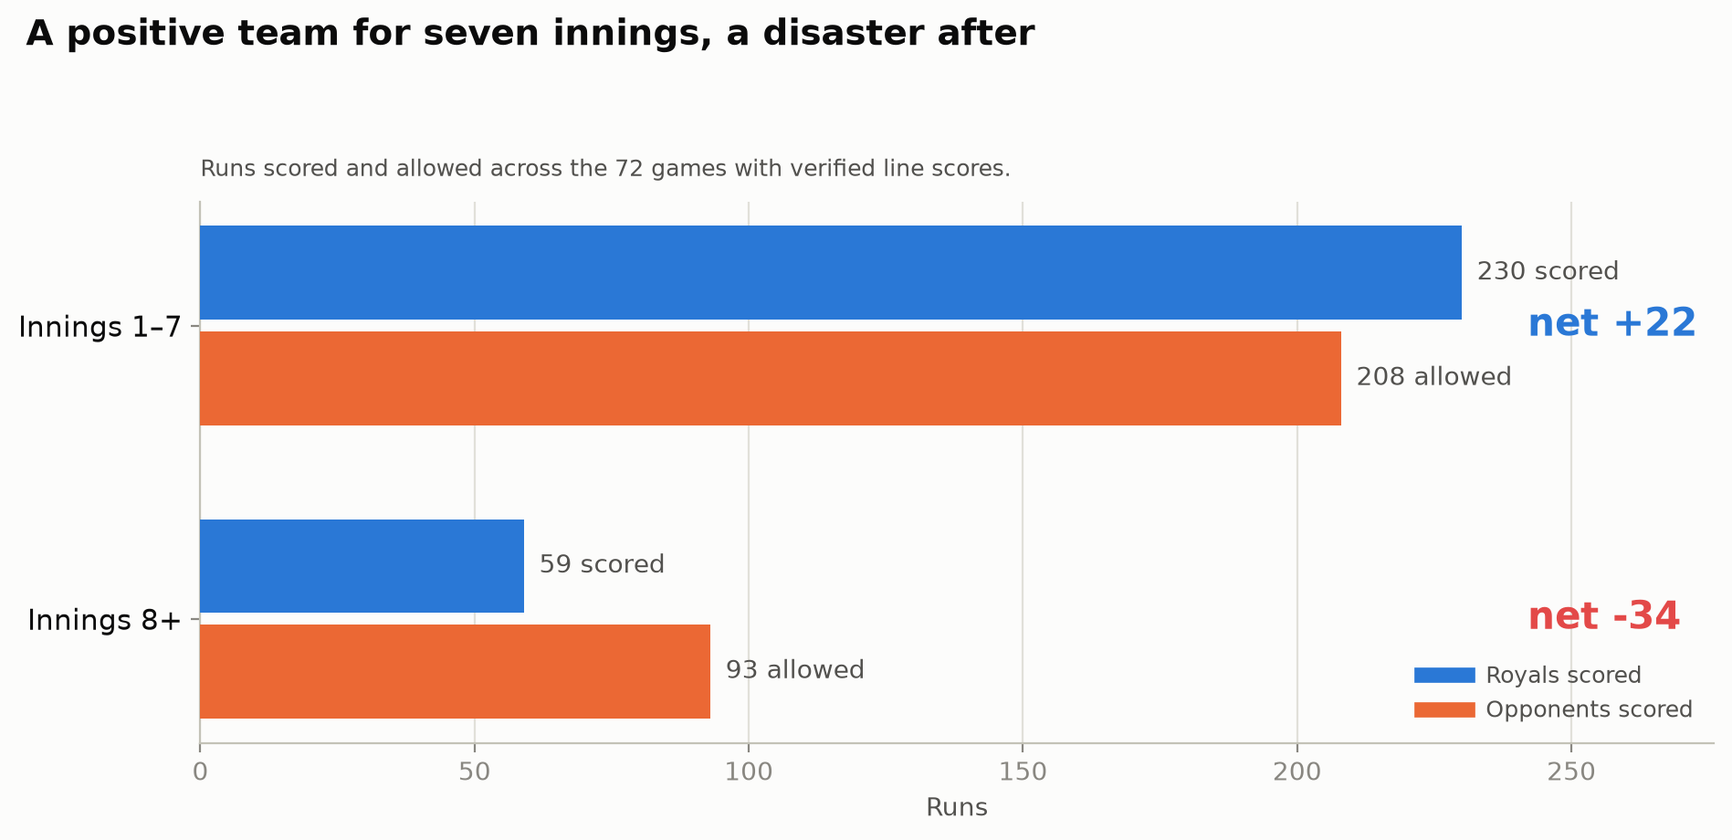
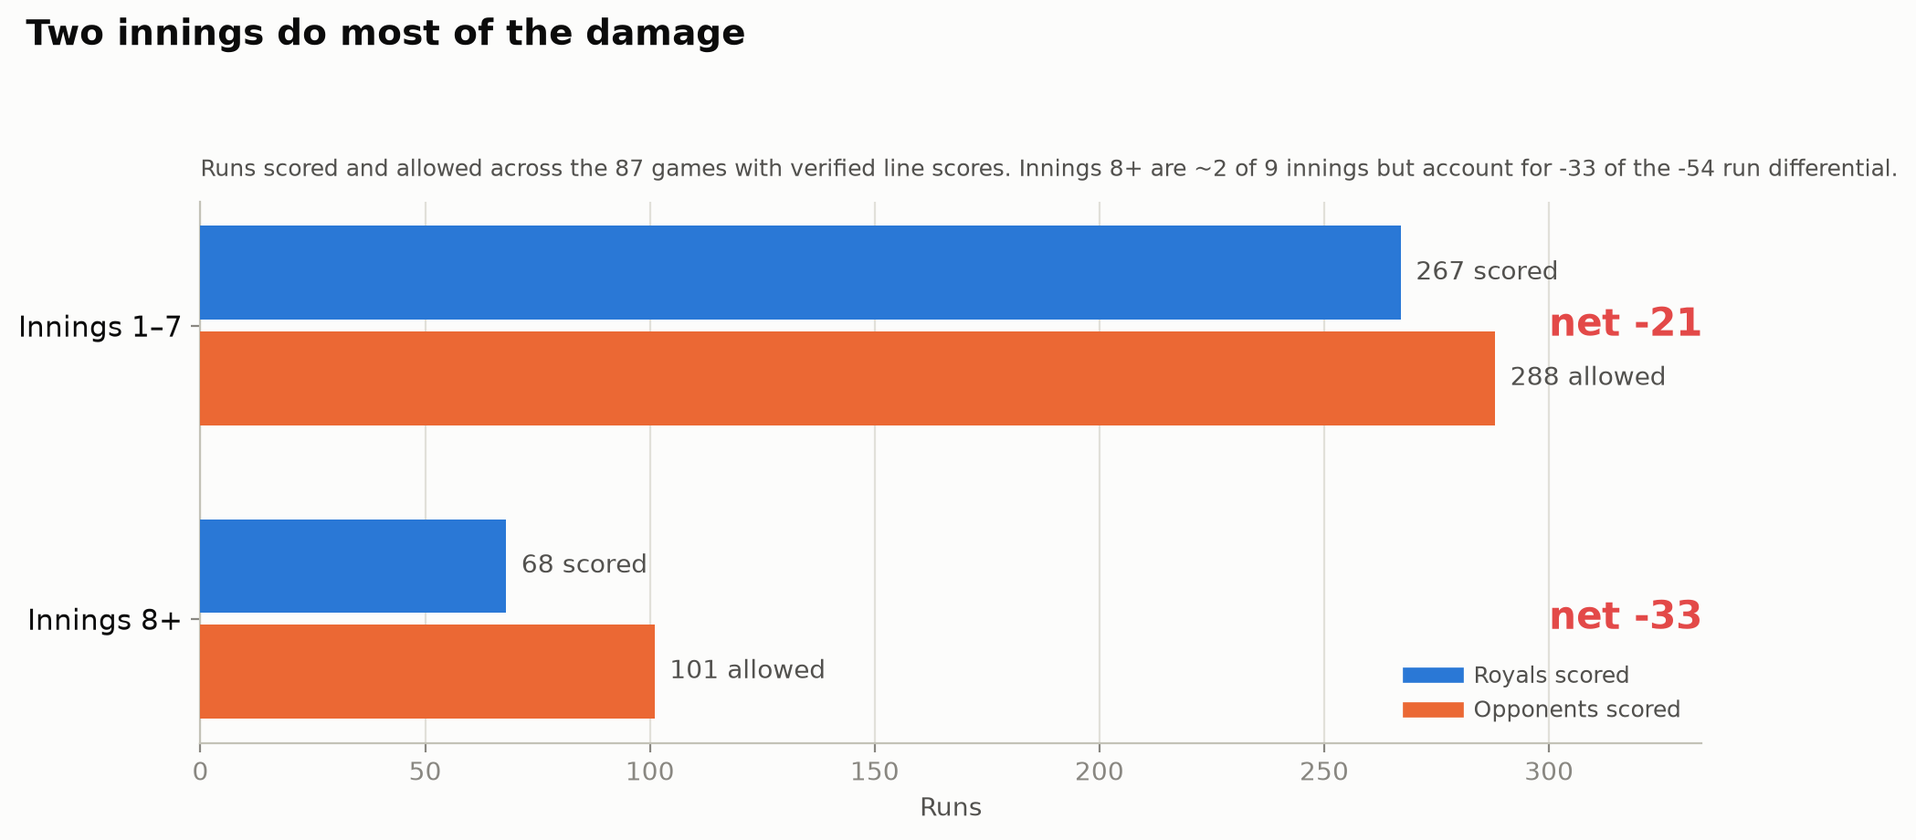
Verify game log against box scores; update analysis, report, figures
Second-pass verification of all 110 games against box-score sources
(Baseball Almanac, plaintextsports, ESPN boxes, AP itemized recaps).
All games now resolved; 87 have exact two-sided thru-7 line scores.

Corrections: May 2 (10-inn game, KC trailed 1-2 thru 7 -> 4th late
comeback), May 24 (5-3, tie eliminated), Jun 4 (6-5, tie -> after-7 W),
Jul 5 (2-2 tie), Jul 10 (trailed 2-3), Jul 30 (led 3-0 thru 8, lost on
walk-off grand slam -> 11th blown after-7 lead).

Verified season: actual 46-64 (.418) vs after-7 46-51-13 (.477).
11 blown after-7 leads vs 4 comebacks; innings 8+ run diff -33.
Figures regenerated from verified data; data_sources.md updated.

Claude-Session: https://claude.ai/code/session_01Mte6x5js7uS9Rd8ZQKC4MF

diff --git a/scripts/plot_seven_inning.py b/scripts/plot_seven_inning.py
@@ -146,6 +146,10 @@ def fig_flips(games, outdir):
     ax.fill_between([0.0, lim], 0, -lim, color=RED, alpha=0.06, zorder=0)
     ax.fill_between([-lim, 0.0], 0, lim, color=BLUE, alpha=0.06, zorder=0)
 
+    n_blown = sum(1 for g in full
+                  if g["kc_thru7"] > g["opp_thru7"] and g["kc_final"] < g["opp_final"])
+    n_comeback = sum(1 for g in full
+                     if g["kc_thru7"] < g["opp_thru7"] and g["kc_final"] > g["opp_final"])
     seen_xy = {}
     for g in full:
         x = g["kc_thru7"] - g["opp_thru7"]
@@ -165,10 +169,10 @@ def fig_flips(games, outdir):
         ax.scatter(x + dx, y + dy, s=size, color=color, edgecolors=SURFACE,
                    linewidths=1.4, zorder=z)
 
-    ax.text(lim - 0.3, -lim + 0.4, "Led thru 7, lost\n(10 games)", color=RED,
+    ax.text(lim - 0.3, -lim + 0.4, f"Led thru 7, lost\n({n_blown} games)", color=RED,
             fontsize=10, fontweight="bold", ha="right", va="bottom")
-    ax.text(-lim + 0.3, lim - 0.4, "Trailed thru 7, won\n(3 games)", color=BLUE,
-            fontsize=10, fontweight="bold", ha="left", va="top")
+    ax.text(-lim + 0.3, lim - 0.4, f"Trailed thru 7, won\n({n_comeback} games)",
+            color=BLUE, fontsize=10, fontweight="bold", ha="left", va="top")
     ax.set_xlim(-lim, lim)
     ax.set_ylim(-lim, lim)
     ax.set_xlabel("Royals margin at the end of the 7th inning")
@@ -214,9 +218,11 @@ def fig_late_runs(games, outdir):
     ax.grid(axis="y", visible=False)
     ax.set_xlim(0, max(scored + allowed) + 46)
     ax.set_xlabel("Runs")
-    title_block(fig, ax, "A positive team for seven innings, a disaster after",
+    net7, net8 = rs7 - ra7, rs8 - ra8
+    title_block(fig, ax, "Two innings do most of the damage",
                 f"Runs scored and allowed across the {len(full)} games with "
-                "verified line scores.")
+                f"verified line scores. Innings 8+ are ~2 of 9 innings but "
+                f"account for {net8} of the {net7 + net8} run differential.")
     legend = [Line2D([0], [0], color=BLUE, lw=6, label="Royals scored"),
               Line2D([0], [0], color=ORANGE, lw=6, label="Opponents scored")]
     ax.legend(handles=legend, loc="lower right", frameon=False, fontsize=9,

diff --git a/reports/royals/2026-07-30_seven-inning-season-counterfactual.md b/reports/royals/2026-07-30_seven-inning-season-counterfactual.md
@@ -1,6 +1,6 @@
 # What if every Royals game ended after 7 innings? A 2026 counterfactual
 
-> Date: 2026-07-30
+> Date: 2026-07-30 (updated 2026-07-31 with box-score verification and figures)
 > Author: Baseball-Thoughts (compiled with Claude)
 
 ## Question
@@ -13,17 +13,20 @@ If the "blown leads" impression is real, the Royals' after-7 record should be me
 
 ## Data
 
-- Source(s): Per-game recaps and partial line scores from ESPN, MLB.com, AP wire stories (via Washington Post, FOX Sports, ABC News, and regional outlets), CBS Sports, and team SB Nation sites (Royals Review, Amazin' Avenue, South Side Sox, Twinkie Town, Lone Star Ball, Redleg Nation, The Good Phight, Camden Chat, Athletics Nation), gathered via web search on 2026-07-30. Sources for pivotal games are cited inline and in the game log.
-- Time window: 2026-03-27 (Opening Day) through 2026-07-30 — 110 regular-season games.
-- Filters / scope: Kansas City Royals regular-season games only.
-- Known limitations: The MLB Stats API and all direct page fetches were blocked by this environment's network policy (same constraint as the 2026-07-08 report), so line scores were reconstructed from recap narratives rather than pulled from a structured API. Confidence is graded per game in the data file; 4 of 110 games could not be resolved through 7 innings and are excluded from the counterfactual tally.
+- **Two independent passes.** Pass 1 reconstructed every game's score through 7 innings from game recaps (AP wire, ESPN, MLB.com, team SB Nation sites). Pass 2 re-verified all 110 games against box-score-grade sources — Baseball Almanac box pages, plaintextsports line scores, ESPN box scores, and AP recaps that itemize every scoring play — and corrected six games (list under Method).
+- **Structured sources were unreachable.** This environment's network policy blocks the MLB Stats API, ESPN's API, Baseball-Reference, Baseball Savant, and HuggingFace (where the weekly-updated `statcast-era-pitches` archive lives). The only open host family is GitHub: Neil Paine's maintained MLB Elo game-results CSV was pulled from `Neil-Paine-1/MLB-WAR-data-historical` as a candidate independent source for final scores, but its data ends with the 2025 season. All verification therefore ran through the web-search layer against the box-score sources above.
+- Time window: 2026-03-27 (Opening Day) through 2026-07-30 — 110 regular-season games, all resolved.
+- Coverage: **87 games have exact through-7 line scores for both teams**; the other 23 have one side bounded (e.g., "11–13") with the after-7 winner still arithmetically certain. Zero games unresolved.
+- Cross-checks: season-record checkpoints reconcile exactly (35-51 entering July 1; 41-60 after July 20; 43-62 after July 24; 46-64 after July 30).
 
 ## Method
 
-For each game, the score at the completion of the 7th inning was reconstructed from recap narratives (e.g., "tied it in the 8th," "walk-off in the 9th," "all the scoring came by the 5th"), cross-checked against season-record checkpoints (35-51 entering July 1; 43-62 after July 24). Each game gets an after-7 result: W, L, or T (tied through 7 — in this thought experiment, ties stand). Games where the exact through-7 line score is unknown but the after-7 leader is arithmetically certain (e.g., the 22-1 loss) are counted in the record but excluded from run-differential math.
+For each game, the score at the completion of the 7th inning was taken from line scores where available, otherwise reconstructed from itemized scoring plays. Each game gets an after-7 result: W, L, or T (tied through 7 — in this thought experiment, ties stand). Games with a certain after-7 winner but partially bounded scores count in the record but are excluded from run-differential math.
 
-Data: [`data/processed/2026_royals_after7_gamelog.csv`](../../data/processed/2026_royals_after7_gamelog.csv) (110 rows, per-game confidence grades and notes).
-Analysis: [`scripts/seven_inning_counterfactual.py`](../../scripts/seven_inning_counterfactual.py) — rerun with `python scripts/seven_inning_counterfactual.py data/processed/2026_royals_after7_gamelog.csv`.
+Corrections made by the verification pass: **May 2** (was unresolved → KC trailed 1-2 through 7 of a 10-inning game they won), **May 24** (5-3 lead, tie scenario eliminated), **June 4** (6-5 through 7, not 6-6 — Caratini's tying homer came in the 8th), **July 5** (2-2 tie, not a KC lead — Perez's sealing double came in the 8th), **July 10** (KC trailed 2-3 through 7; the 3-3 tie only existed mid-8th), and **July 30** (was unresolved → KC led 3-0 through 7 *and 8* and lost on a 9th-inning walk-off grand slam).
+
+Data: [`data/processed/2026_royals_after7_gamelog.csv`](../../data/processed/2026_royals_after7_gamelog.csv) (110 rows, per-game confidence grades, line scores in notes).
+Analysis: [`scripts/seven_inning_counterfactual.py`](../../scripts/seven_inning_counterfactual.py) · Figures: [`scripts/plot_seven_inning.py`](../../scripts/plot_seven_inning.py)
 
 ## Results
 
@@ -32,18 +35,15 @@ Analysis: [`scripts/seven_inning_counterfactual.py`](../../scripts/seven_inning_
 | | Record | Win % |
 |---|---|---|
 | **Actual season (110 games)** | 46-64 | .418 |
-| **Actual, over the 106 resolved games** | 45-61 | .425 |
-| **If games ended after 7 (106 resolved games)** | **45-47-14** | **.491** (ties as half) |
+| **If games ended after 7 (same 110 games)** | **46-51-13** | **.477** (ties as half) |
 
-The 7-inning Royals are a nearly .500 team. The 9-inning Royals are on a 68-win pace. Innings 8 and beyond have cost Kansas City **about 7 wins of standings value through July 30** — roughly an 11-win swing over a full season.
+The 7-inning Royals sit a hair under .500. The 9-inning Royals are on a 68-win pace. Innings 8 and beyond have cost Kansas City **6.5 wins of standings value through July 30** — a ~10-win swing over a full season.
 
-### It's not the offense, and it's not the starters
+![Cumulative games above .500: actual vs after-7](figures/walk_actual_vs_after7.png)
 
-Over the 72 games with fully reconstructed line scores, the Royals **outscored opponents by 22 runs through 7 innings** — and finished those same games with a **−12 run differential**. From the 8th inning on they were outscored **93 to 59 (−34)**. The first seven innings of Royals baseball this season have been played by a solidly positive team; the last two have been played by one of the worst late-game teams imaginable.
+### Eleven blown games — including the very night this question was asked
 
-### Ten blown games: led after 7, lost anyway
-
-The Royals led at the end of the 7th in **ten games they went on to lose**. Only **three times** did they trail after 7 and come back to win (Apr 26 vs LAA, May 8 vs DET, Jul 26 at DET). A 10-to-3 imbalance:
+The Royals led at the end of the 7th in **eleven games they went on to lose**; only **four times** did they trail after 7 and come back to win. Eight of the eleven ended as walk-off losses.
 
 | Date | Opp | Led thru 7 | Final | How it died |
 |---|---|---|---|---|
@@ -57,59 +57,61 @@ The Royals led at the end of the 7th in **ten games they went on to lose**. Only
 | Jun 13 | vs HOU | 7-5 | L 7-8 | Altuve tying HR in the 8th; winning run scored on a botched double-play throw in the 9th |
 | Jul 8 | @ NYM | 2-1 | L 2-6 | Five-run 8th off Lange/Cuas: bases-loaded HBP, two-run single, wild pitch |
 | Jul 28 | @ MIN | 2-1 | L 2-3 | Two out in the 9th; Royce Lewis two-run walk-off triple |
+| **Jul 30** | @ MIN | **3-0** | **L 3-4** | **Cameron threw 8 shutout innings; Erceg loaded the bases in the 9th and Kody Clemens hit a walk-off grand slam** |
 
-Seven of the ten ended as walk-off losses. In a 7-inning world, all ten go in the win column.
+![Margin through 7 vs final margin, flips highlighted](figures/flip_scatter.png)
 
-### Fourteen ties — and the Royals actually win the late innings of tied games
+### Thirteen ties — and the Royals actually win the late innings of tied games
 
-Fourteen games were tied through 7 (13% of the season). Here the Royals broke even-plus: they won 7 of the 14 in real life (including Salvador Perez's record-breaking 318th-HR game on Jul 25 and the Jensen walk-off against San Diego on Jul 17) and lost 7 (four of them walk-offs: Rocchio, Pozo, Gonzalez, plus Basallo's 8th-inning homer). The disaster is specifically **protecting leads**, not playing from even.
+Thirteen games were tied through 7 (12% of the season). Here the Royals came out ahead: they won 7 of the 13 in real life (including Salvador Perez's record-breaking 318th-HR game on Jul 25, the Jensen walk-off against San Diego on Jul 17, and the Jul 5 Phillies game sealed by Perez's 8th-inning double) and lost 6 — three of those by walk-off (Rocchio, Pozo, Gonzalez). The disaster is specifically **protecting leads**, not playing from even.
+
+### The run-differential anatomy
+
+Over the 87 games with complete line scores, the Royals were outscored by 21 through seven innings — they are not secretly a good team for seven frames; the 22-1 and 19-2 blowouts are real. But innings 8+ produced a **−33 differential (68 scored, 101 allowed) in roughly two innings a game**: per inning, the late innings have been about **five times worse** than innings 1–7 (−0.19 runs/inning vs −0.03). The record gap comes precisely from close games: an 11-to-4 blown-lead imbalance and a .418 season that would be .477 without the last two innings.
+
+![Runs scored and allowed, innings 1-7 vs 8+](figures/late_inning_runs.png)
 
 ### Month by month
 
-| Month | Actual | After 7 innings | Swing |
+| Month | Actual | After 7 innings | Swing (ties = ½) |
 |---|---|---|---|
 | March | 2-2 | 3-1 | +1 |
 | April | 10-17 | 11-13-3 | +2.5 |
-| May | 10-18 | 8-15-4 | ±0 |
-| June | 13-14 | 13-10-4 | +2 |
-| July (thru 7/30) | 11-13 | 10-8-3 | +0.5 |
+| May | 10-18 | 8-16-4 | ±0 |
+| June | 13-14 | 14-10-3 | +2.5 |
+| July (thru 7/30) | 11-13 | 10-11-3 | +0.5 |
 
-May is the honest month: the Royals were simply bad for nine innings (they even stole a couple of games late — the Isbel walk-off on May 8 was a real comeback). Every other month, the last two innings took wins off the board. April alone turned a would-be .500-ish month (11-13-3) into 10-17.
+May is the honest month: the Royals were simply bad for nine innings, and twice stole games late (the Isbel walk-off May 8, the 10-inning May 2 win in Seattle). Every other month, the last two innings took wins off the board.
 
 ### The culprits have names
 
-The blown games cluster around the same arms: **Lucas Erceg** (blown 9th innings May 25, May 30, Jun 2), **Matt Strahm** (decisive 8th-inning homers allowed May 12, Jun 6, Jul 10), and the **Lange/Cuas** five-run 8th on Jul 8. The Jun 10 loss featured a walk-walk-HBP meltdown; Jun 13 and the Jul 28 near-miss ended on defensive mistakes. This is a late-inning run-prevention problem across the board — the offense actually added runs late (59 scored in innings 8+), just nowhere near the 93 allowed.
+The blown games cluster around the same arms. **Lucas Erceg** has four of them: the Volpe two-run single (May 25, tied game), five straight hits in Texas (May 30), Benson's tying homer (Jun 2), and the Clemens walk-off grand slam (Jul 30). **Matt Strahm** allowed the decisive 8th-inning homer three times in tied games (May 12 Hill, Jun 6 Arcia, Jul 10 Basallo). The **Lange/Cuas** five-run 8th lost Jul 8. Two more died on defense (the Jun 13 double-play throw, Jul 28 after five double plays had kept KC ahead). The offense is not the problem late — 68 runs scored in innings 8+, and 7 of 13 after-7 ties won — the runs allowed are.
 
 ## Limitations
 
-- Line scores were reconstructed from recap narratives, not an API. 72 of 110 games have fully verified through-7 scores; 34 more have a certain after-7 winner but partially unknown exact scores; 4 games (May 2, Jul 11, Jul 12, Jul 30) are unresolved and excluded. Three of the four unresolved games were actual losses that were very probably also after-7 losses — including them would nudge the counterfactual toward 45-50-14 (.477), still ~5 wins better than actual.
-- Ties are counted as half-wins, which flatters no one; MLB has no ties, so the counterfactual record is an accounting convention, not a simulation.
-- The counterfactual is descriptive, not causal: in a real 7-inning league, managers would deploy bullpens completely differently, so this measures *where the 2026 Royals lost their games*, not what a 7-inning league would produce.
-- 35 resolved games carry MEDIUM confidence on the exact through-7 score (the after-7 winner is certain in each); a structured API pull could tighten every number here.
+- No structured API was reachable; every line score came from box-score pages and itemized recaps surfaced through the search layer. 87 of 110 games have exact two-sided through-7 scores; 23 more have one side bounded with a certain after-7 winner; 9 carry reduced confidence overall (flagged in the CSV). No game's after-7 *result* is in doubt.
+- Ties counted as half-wins are an accounting convention, not a simulation; MLB has no ties.
+- The counterfactual is descriptive, not causal: in a real 7-inning league, bullpens would be deployed completely differently. This measures *where the 2026 Royals lost their games*, not what a 7-inning league would produce.
 
 ## Takeaway
 
-The impression is correct, and it's quantifiable: through July 30 the Royals are a .491 team through seven innings and a .418 team at final. They led after 7 in ten games they lost — seven by walk-off — against only three late comeback wins, and were outscored 93-59 from the 8th inning on despite a +22 run differential through 7. End every game after seven innings and this is a fringe-.500 club (45-47-14) instead of one 18 games under. The roughly 7 wins burned in the late innings trace mostly to the high-leverage bullpen (Erceg's three blown 9ths, Strahm's three decisive 8th-inning homers, the Jul 8 Lange/Cuas implosion) rather than to a lineup that goes quiet late.
+Verified against box scores, the picture is sharper than the first pass suggested: the Royals are a .477 team through seven innings and a .418 team at final. They led after 7 in eleven games they lost — eight by walk-off, four with Erceg on the mound at the end — against four late comeback wins, and innings 8+ carry a −33 run differential in two innings a game, five times worse per inning than the first seven. The night before this report was updated was the season in miniature: eight shutout innings from Noah Cameron, a 3-0 lead, and a walk-off grand slam. End games after seven and this club is 46-51-13 — fringe-.500 — instead of eighteen games under.
 
 ## Next iteration
 
-- Re-pull the whole season from the MLB Stats API linescore endpoint from a network-permitted environment to upgrade all MEDIUM rows to verified and resolve the 4 unknowns.
-- Compare against league: is a −34 innings-8+ run differential actually extreme, or does every bad team look like this? (Compute the same counterfactual for all 30 teams.)
-- Slice by reliever: innings-8+ runs allowed by pitcher, and win-probability-added lost in innings 8+, to separate the Erceg/Strahm effect from general bullpen depth.
-- Revisit after the trade deadline: if the late-inning arms change, does the actual-vs-after-7 gap close?
+- A statsapi/linescore pull from a network-permitted environment would upgrade the 23 bounded rows to exact and add R/H/E; the repo's CSV schema is ready for it.
+- League context: compute the same counterfactual for all 30 teams — is an 11-to-4 blown-lead imbalance and −33 late differential historically extreme?
+- Per-reliever accounting: innings-8+ runs allowed and WPA lost by pitcher, to separate the Erceg/Strahm effect from bullpen depth.
+- Re-run after the trade deadline to see whether the gap closes with new late-inning arms.
 
 ## Sources
 
-Pivotal-game sources (full per-game citations in the CSV notes and the four research passes behind it):
+Verification-pass sources per game are recorded in the CSV notes. Pivotal-game citations:
 
-- [ESPN: Braves 6-2 Royals, Mar 28 — walk-off grand slam](https://www.espn.com/mlb/recap/_/gameId/401814710) · [AJC](https://www.ajc.com/sports/2026/03/dominic-smith-hits-walk-off-grand-slam-as-braves-beat-royals-6-2/)
-- [ESPN: Tigers 2-1 Royals, Apr 14](https://www.espn.com/mlb/recap/_/gameId/401814934) · [ESPN: Tigers 10-9 Royals, Apr 16](https://www.espn.com/mlb/recap?gameId=401814963)
-- [ESPN: Orioles 7-5 Royals (12), Apr 20](https://www.espn.com/mlb/recap?gameId=401815021)
-- [MLB.com: Rangers walk off Royals, May 30](https://www.mlb.com/news/carter-jensen-royals-rally-before-walk-off-loss-to-rangers)
-- [Redleg Nation: Benson ties it in 9th, Dunn wins it in 10th, Jun 2](https://www.redlegnation.com/2026/06/02/will-benson-ties-it-in-9th-blake-dunn-wins-it-in-10th/)
-- [NBC DFW: Rangers 6-4 in 10, Jun 10](https://www.nbcdfw.com/mlb/diaz-and-burger-lead-the-rangers-to-a-6-4-win-over-the-royals-in-10-innings/4035150/) · [MLB.com: Astros' three unanswered, Jun 13](https://www.mlb.com/video/astros-score-three-unanswered-runs-to-defeat-royals)
-- [Amazin' Avenue: Five-run eighth propels Mets, Jul 8](https://www.amazinavenue.com/new-york-mets-scores/97401/mets-recap-final-scores-five-run-eighth-propels-victory-over-royals-kansas-city-new-york-baseball-mlb)
-- [Baltimore Banner: Basallo's 8th-inning homer, Jul 10](https://www.thebanner.com/sports/orioles-mlb/orioles-royals-samuel-basallo-winning-home-run-RENZGVWL2JCGFBJB2BPRYPP7XU/)
-- [CBS Minnesota/AP: Lewis walk-off triple, Jul 28](https://www.cbsnews.com/minnesota/news/twins-vs-royals-game-july-28-2026/)
-- [Times Gazette/AP: Perez's record 318th HR, Jul 25](https://www.timesgazette.com/2026/07/25/nick-loftin-and-salvador-perez-hit-late-inning-home-runs-as-royals-rally-to-beat-tigers-3-2/)
-- [NBC Sports/AP: Jensen caps 4-run 10th, Jul 17](https://www.nbcsports.com/mlb/news/carter-jensens-2-run-single-caps-4-run-10th-inning-as-royals-rally-for-7-6-win-over-padres)
+- [Baseball Almanac 2026 box scores (e.g., 202604160DET, 202605250KCA, 202607020KCA)](https://www.baseball-almanac.com/box-scores/boxscore.php?boxid=202604160DET) · [plaintextsports line scores (e.g., Jul 11 KC-BAL)](https://plaintextsports.com/mlb/2026-07-11/kc-bal)
+- [Neil-Paine-1/MLB-WAR-data-historical](https://github.com/Neil-Paine-1/MLB-WAR-data-historical) (checked as an independent finals source; data ends 2025)
+- [AP via Washington Post, Jul 30 @ MIN](https://www.washingtonpost.com/sports/mlb/2026/07/29/twins-royals-score/a5ce5ec0-8bbb-11f1-8912-d71e69d679d7_story.html) · [Jul 28 @ MIN](https://www.washingtonpost.com/sports/mlb/2026/07/28/twins-royals-score-lewis-buxton/bc39ae96-8afb-11f1-8912-d71e69d679d7_story.html)
+- [ESPN: Braves 6-2 Royals, Mar 28](https://www.espn.com/mlb/recap/_/gameId/401814710) · [Orioles 7-5 Royals (12), Apr 20](https://www.espn.com/mlb/recap?gameId=401815021) · [Tigers 10-9 Royals, Apr 16](https://www.espn.com/mlb/recap?gameId=401814963)
+- [Royals Review: May 2 in 10 innings](https://www.royalsreview.com/kansas-city-royals-scores-standings/98125/royals-defeat-mariners-and-the-ghost-of-randy-johnson-3-2-in-10-innings) · [MLB.com: Rangers walk off Royals, May 30](https://www.mlb.com/news/carter-jensen-royals-rally-before-walk-off-loss-to-rangers)
+- [Redleg Nation: Jun 2](https://www.redlegnation.com/2026/06/02/will-benson-ties-it-in-9th-blake-dunn-wins-it-in-10th/) · [Amazin' Avenue: five-run eighth, Jul 8](https://www.amazinavenue.com/new-york-mets-scores/97401/mets-recap-final-scores-five-run-eighth-propels-victory-over-royals-kansas-city-new-york-baseball-mlb) · [Baltimore Banner: Basallo, Jul 10](https://www.thebanner.com/sports/orioles-mlb/orioles-royals-samuel-basallo-winning-home-run-RENZGVWL2JCGFBJB2BPRYPP7XU/)
+- [Times Gazette/AP: Perez's record 318th HR, Jul 25](https://www.timesgazette.com/2026/07/25/nick-loftin-and-salvador-perez-hit-late-inning-home-runs-as-royals-rally-to-beat-tigers-3-2/) · [NBC Sports/AP: Jensen walk-off, Jul 17](https://www.nbcsports.com/mlb/news/carter-jensens-2-run-single-caps-4-run-10th-inning-as-royals-rally-for-7-6-win-over-padres)

diff --git a/docs/data_sources.md b/docs/data_sources.md
@@ -12,6 +12,9 @@ Document every data source used in this repo. Keep this file current.
 | Retrosheet | retrosheet.org | Event files / CSV | Periodic | Free for non-commercial use; attribution required | Yes (raw/) |
 | Game recaps (ESPN / MLB.com / CBS Sports) | espn.com, mlb.com, cbssports.com | Manual web search; facts quoted with inline links in reports | As needed | News content; quote with attribution, no bulk scraping | n/a (facts cited in reports only) |
 | MLB Stats API | statsapi.mlb.com | HTTP JSON (schedule, linescore endpoints) | As needed | MLB terms apply; personal/analytical use | Yes (raw/) — note: blocked from some sandboxed environments |
+| Baseball Almanac box scores | baseball-almanac.com/box-scores/ | Per-game pages (boxid=YYYYMMDD0TTT, TTT = home team retrosheet code); facts quoted via web search | As needed | Personal use; no bulk scraping | n/a (facts cited in reports/processed CSVs) |
+| plaintextsports line scores | plaintextsports.com/mlb/DATE/AWAY-HOME | Per-game line scores; facts quoted via web search | Daily during season | Personal use | n/a (facts cited in reports/processed CSVs) |
+| Neil Paine MLB Elo / game results | github.com/Neil-Paine-1/MLB-WAR-data-historical | CSV via raw.githubusercontent.com | Irregular (ends 2025 as of 2026-07) | Public repo; attribute | Yes (raw/) |
 
 ## Notes
 
